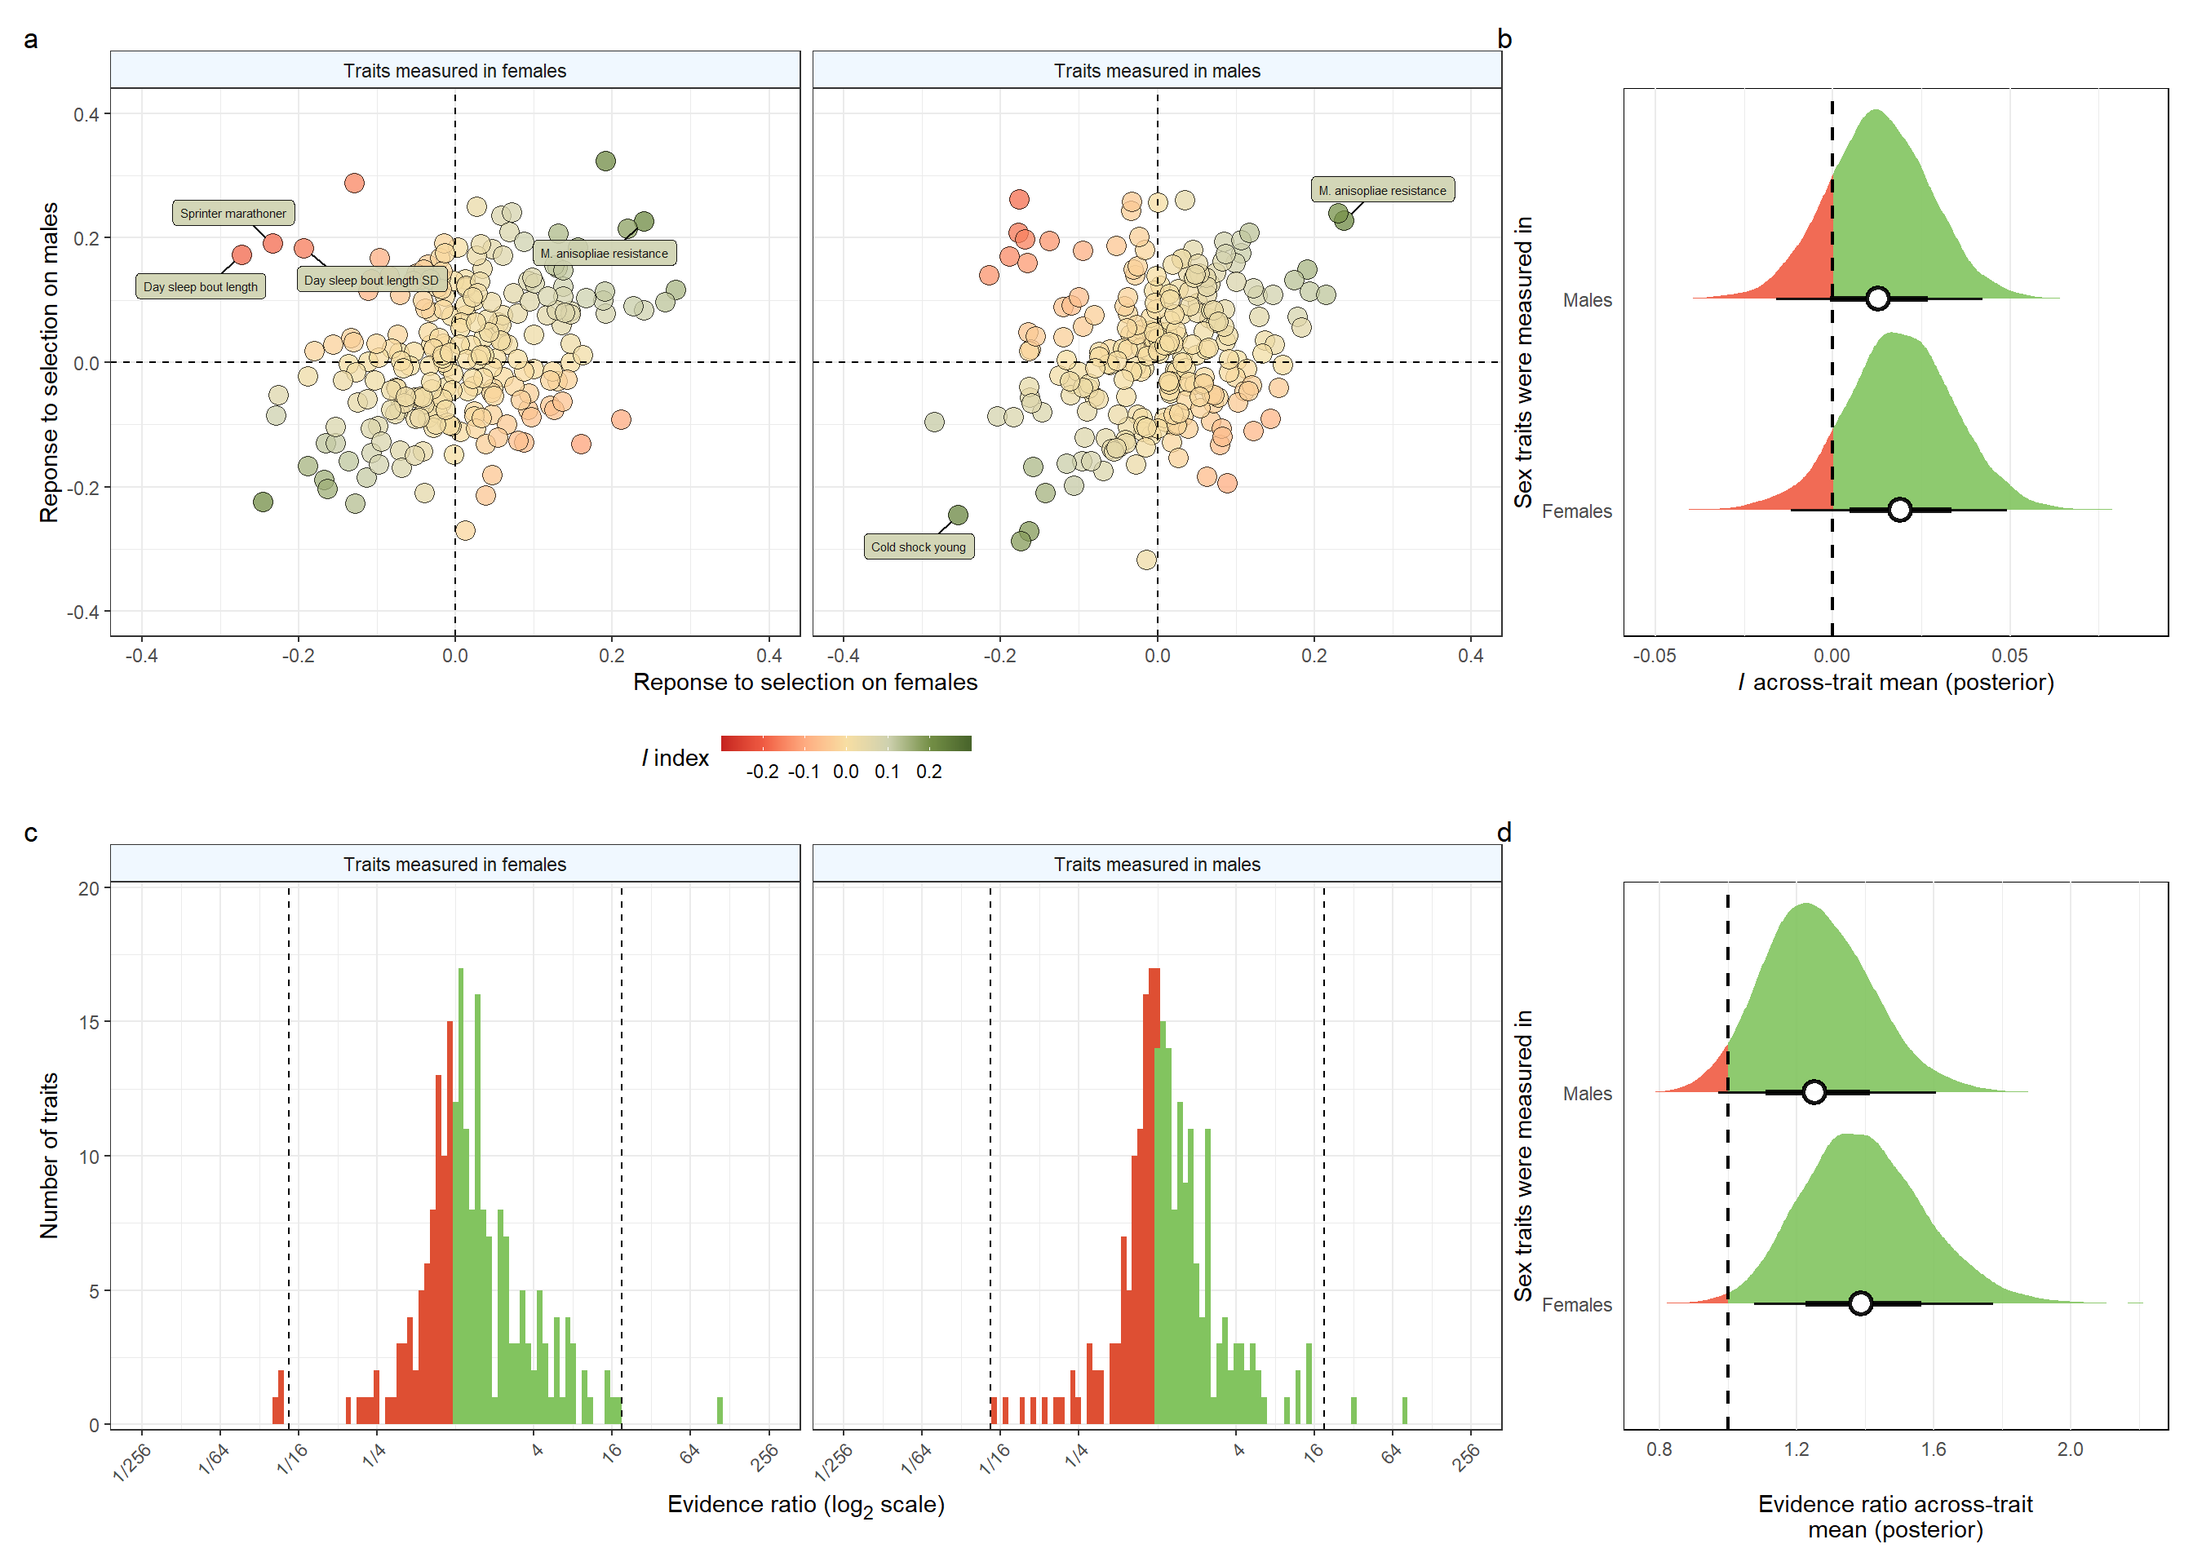
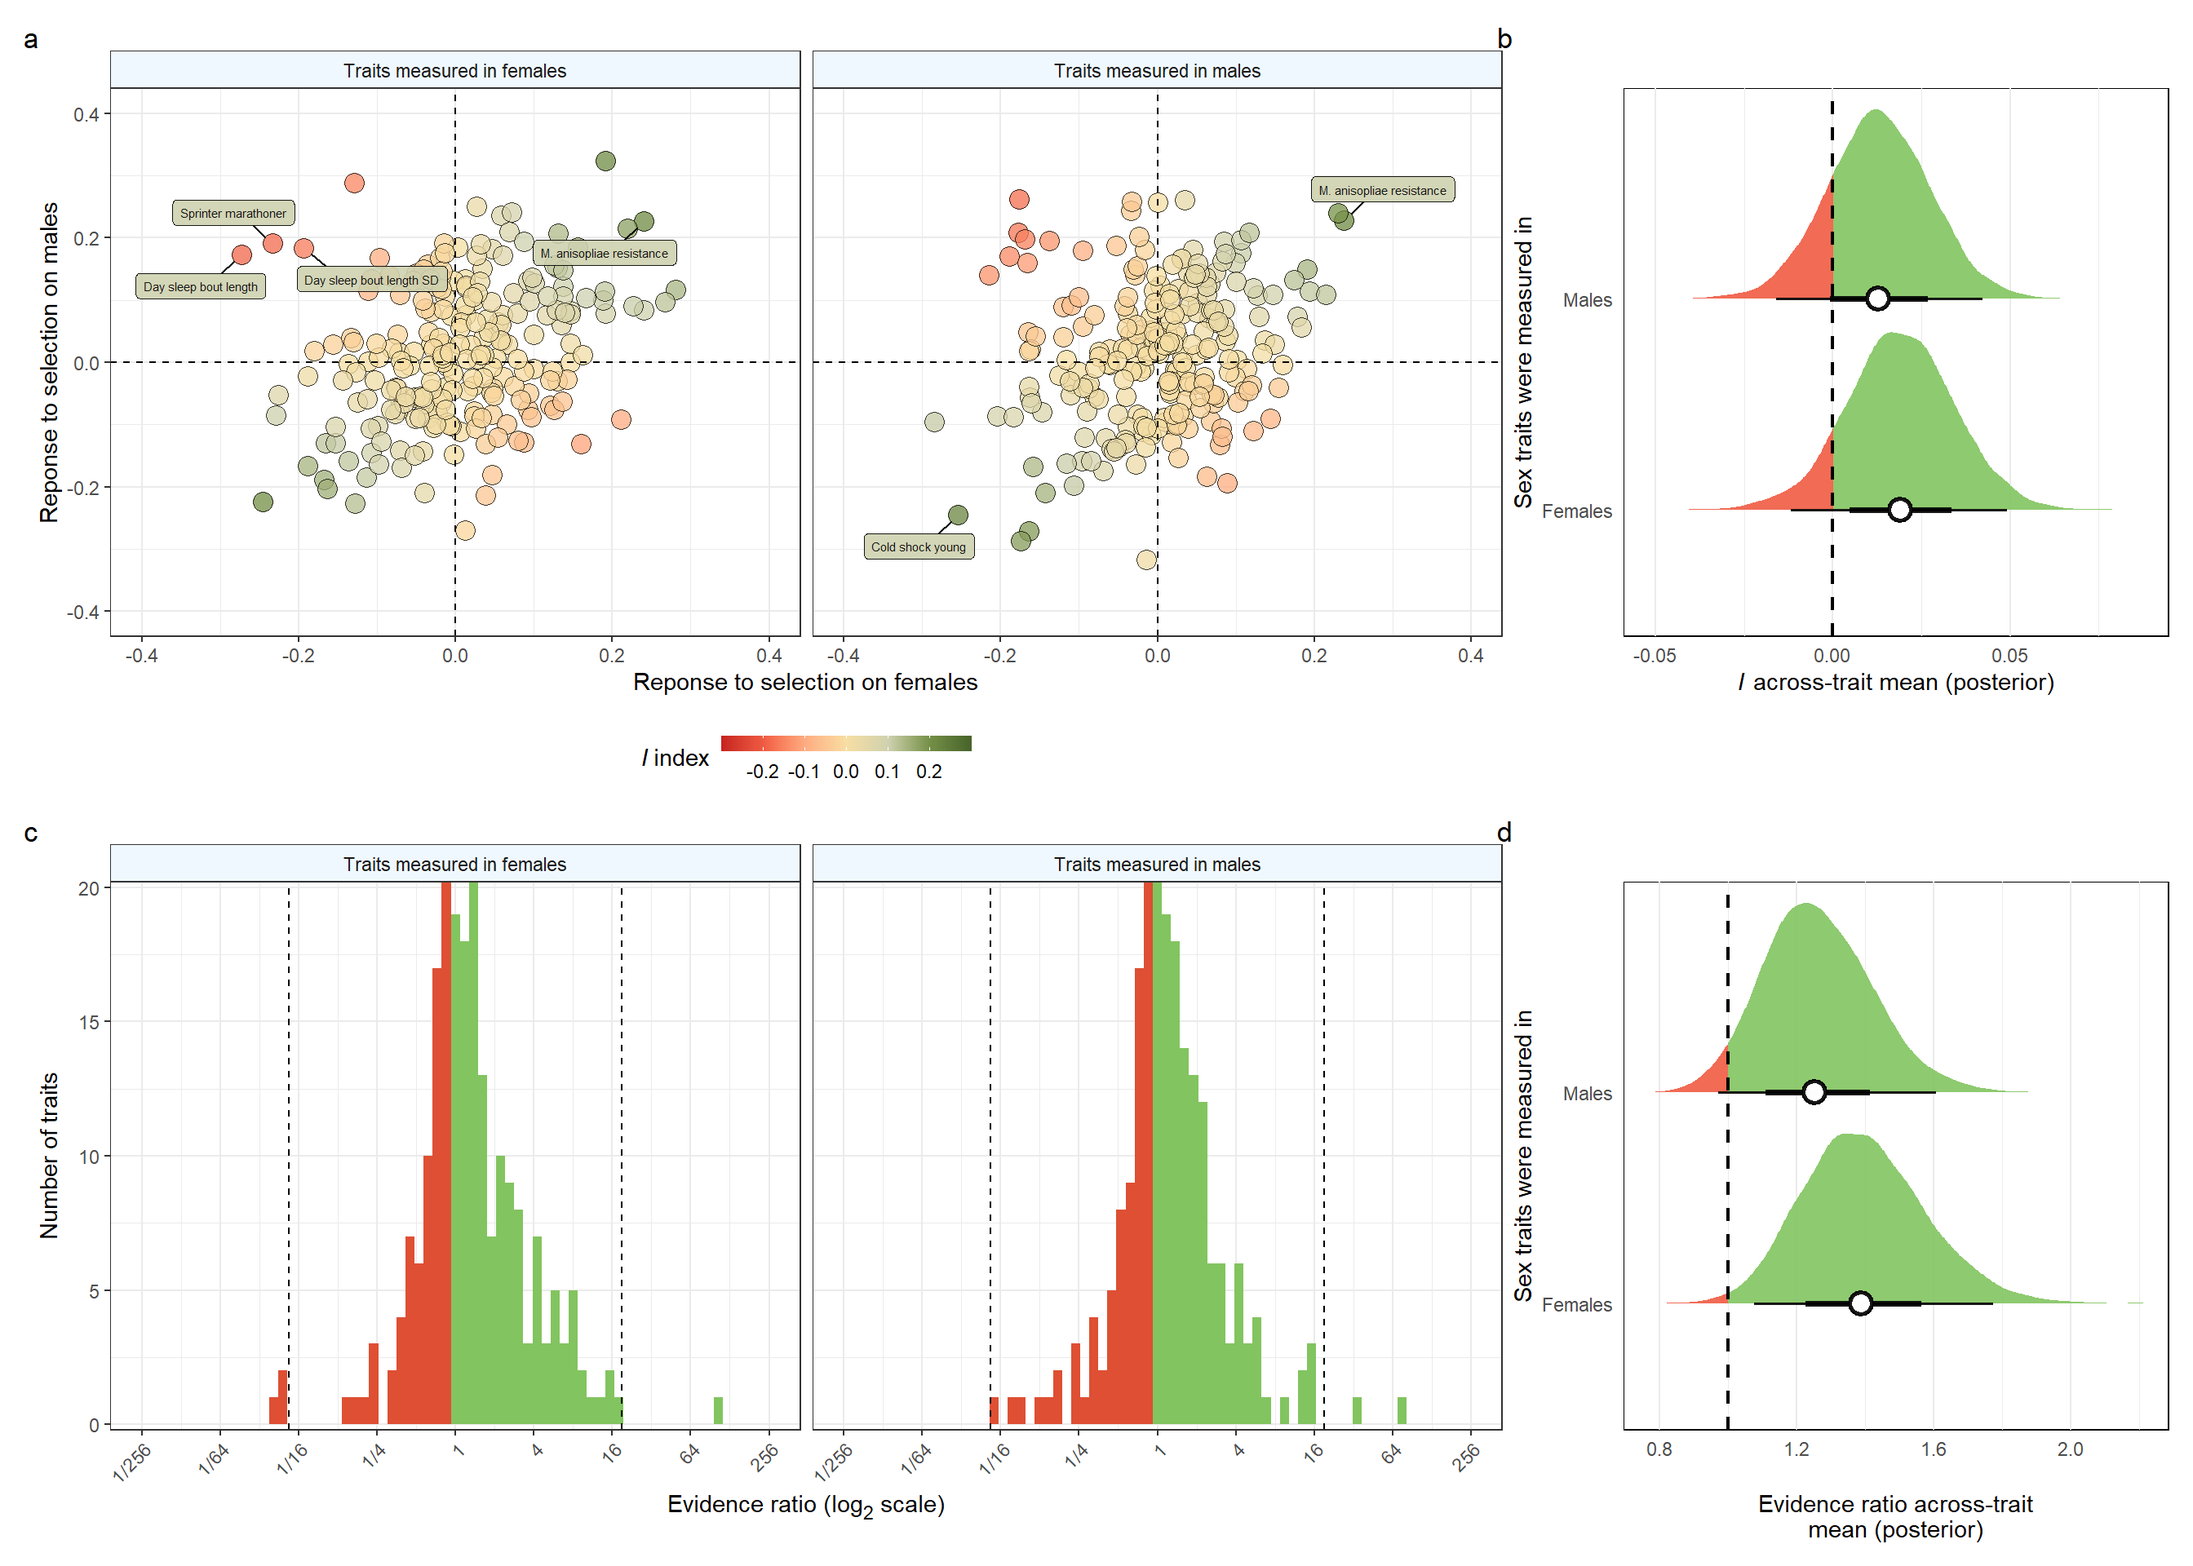
Build site.

Changed region(s): [[0.4375, 0.5625, 0.625, 0.9062], [0.1562, 0.5625, 0.2812, 0.9062]]

diff --git a/docs/Main_analysis.html b/docs/Main_analysis.html
@@ -423,7 +423,7 @@ class="glyphicon glyphicon-ok text-success" aria-hidden="true"></span>
 <div class="tab-content">
 <div id="summary" class="tab-pane fade in active">
 <p>
-<strong>Last updated:</strong> 2023-10-17
+<strong>Last updated:</strong> 2023-10-19
 </p>
 <p>
 <strong>Checks:</strong> <span
@@ -554,15 +554,15 @@ project makes it easier to run your code on other machines.</p>
 <div class="panel panel-default">
 <div class="panel-heading">
 <p class="panel-title">
-<a data-toggle="collapse" data-parent="#workflowr-checks" href="#strongRepositoryversionstrongahrefhttpsgithubcomtomkeaneyDGRPsexualconflicttree48c7e9f2ebf56a798c432436bb9708bd9ee04dcetargetblank48c7e9fa">
+<a data-toggle="collapse" data-parent="#workflowr-checks" href="#strongRepositoryversionstrongahrefhttpsgithubcomtomkeaneyDGRPsexualconflicttree4188afb015b72c7f1dbe96e738df3e0165c40079targetblank4188afba">
 <span class="glyphicon glyphicon-ok text-success"
 aria-hidden="true"></span> <strong>Repository version:</strong>
-<a href="https://github.com/tomkeaney/DGRP_sexual_conflict/tree/48c7e9f2ebf56a798c432436bb9708bd9ee04dce" target="_blank">48c7e9f</a>
+<a href="https://github.com/tomkeaney/DGRP_sexual_conflict/tree/4188afb015b72c7f1dbe96e738df3e0165c40079" target="_blank">4188afb</a>
 </a>
 </p>
 </div>
 <div
[2 lines of base64/hex data omitted]
 class="panel-collapse collapse">
 <div class="panel-body">
 <p>
@@ -572,7 +572,7 @@ reproducibility.
 </p>
 <p>
 The results in this page were generated with repository version
-<a href="https://github.com/tomkeaney/DGRP_sexual_conflict/tree/48c7e9f2ebf56a798c432436bb9708bd9ee04dce" target="_blank">48c7e9f</a>.
+<a href="https://github.com/tomkeaney/DGRP_sexual_conflict/tree/4188afb015b72c7f1dbe96e738df3e0165c40079" target="_blank">4188afb</a>.
 See the <em>Past versions</em> tab to see a history of the changes made
 to the R Markdown and HTML files.
 </p>
@@ -600,14 +600,9 @@ Untracked files:
     Untracked:  Chapter_2_Figure_S2.pdf
     Untracked:  Conflict_plot_females.pdf
     Untracked:  Conflict_plot_male.pdf
-    Untracked:  Figure_1.pdf
-    Untracked:  Figure_1.png
-    Untracked:  Figure_2.pdf
-    Untracked:  Figure_3.pdf
     Untracked:  Figures.Rmd
     Untracked:  Manuscript/
     Untracked:  PRISMA.pptx
-    Untracked:  Picture1.pdf
     Untracked:  R_transcriptome_medians.csv
     Untracked:  Reported_heritability.xlsx
     Untracked:  Useful_cuts.Rmd
@@ -628,6 +623,7 @@ Untracked files:
     Untracked:  data/transcriptome_chunks/
     Untracked:  data/transcriptome_output/
     Untracked:  evidence_ratios.R
+    Untracked:  figures/
     Untracked:  fits/
     Untracked:  height_example.pdf
     Untracked:  mag_R_sem.pdf
@@ -636,6 +632,7 @@ Untracked files:
 Unstaged changes:
     Modified:   DGRP_sexual_conflict.Rproj
     Modified:   _workflowr.yml
+    Modified:   analysis/Transcriptome_analysis.Rmd
     Deleted:    code/export_gwas_results_for_shiny_app.R
     Modified:   data/all.dgrp.phenos_unscaled.csv
 
@@ -683,6 +680,40 @@ Message
 </tr>
 </thead>
 <tbody>
+<tr>
+<td>
+Rmd
+</td>
+<td>
+<a href="https://github.com/tomkeaney/DGRP_sexual_conflict/blob/4188afb015b72c7f1dbe96e738df3e0165c40079/analysis/Main_analysis.Rmd" target="_blank">4188afb</a>
+</td>
+<td>
+tomkeaney
+</td>
+<td>
+2023-10-19
+</td>
+<td>
+small wording changes
+</td>
+</tr>
+<tr>
+<td>
+html
+</td>
+<td>
+<a href="https://rawcdn.githack.com/tomkeaney/DGRP_sexual_conflict/319c84c1118d4c1c59279734e1b3432ef1d08901/docs/Main_analysis.html" target="_blank">319c84c</a>
+</td>
+<td>
+tomkeaney
+</td>
+<td>
+2023-10-17
+</td>
+<td>
+Build site.
+</td>
+</tr>
 <tr>
 <td>
 Rmd
@@ -1712,6 +1743,17 @@ Date
 <tbody>
 <tr>
 <td>
+<a href="https://github.com/tomkeaney/DGRP_sexual_conflict/blob/319c84c1118d4c1c59279734e1b3432ef1d08901/docs/figure/Main_analysis.Rmd/unnamed-chunk-6-1.png" target="_blank">319c84c</a>
+</td>
+<td>
+tomkeaney
+</td>
+<td>
+2023-10-17
+</td>
+</tr>
+<tr>
+<td>
 <a href="https://github.com/tomkeaney/DGRP_sexual_conflict/blob/daa935de0473e2ecaedca3c65f414d2858ddc598/docs/figure/Main_analysis.Rmd/unnamed-chunk-6-1.png" target="_blank">daa935d</a>
 </td>
 <td>
@@ -1949,6 +1991,17 @@ Date
 <tbody>
 <tr>
 <td>
+<a href="https://github.com/tomkeaney/DGRP_sexual_conflict/blob/319c84c1118d4c1c59279734e1b3432ef1d08901/docs/figure/Main_analysis.Rmd/unnamed-chunk-9-1.png" target="_blank">319c84c</a>
+</td>
+<td>
+tomkeaney
+</td>
+<td>
+2023-10-17
+</td>
+</tr>
+<tr>
+<td>
 <a href="https://github.com/tomkeaney/DGRP_sexual_conflict/blob/daa935de0473e2ecaedca3c65f414d2858ddc598/docs/figure/Main_analysis.Rmd/unnamed-chunk-9-1.png" target="_blank">daa935d</a>
 </td>
 <td>
@@ -2086,6 +2139,17 @@ Date
 </tr>
 </thead>
 <tbody>
+<tr>
+<td>
+<a href="https://github.com/tomkeaney/DGRP_sexual_conflict/blob/319c84c1118d4c1c59279734e1b3432ef1d08901/docs/figure/Main_analysis.Rmd/unnamed-chunk-10-1.png" target="_blank">319c84c</a>
+</td>
+<td>
+tomkeaney
+</td>
+<td>
+2023-10-17
+</td>
+</tr>
 <tr>
 <td>
 <a href="https://github.com/tomkeaney/DGRP_sexual_conflict/blob/daa935de0473e2ecaedca3c65f414d2858ddc598/docs/figure/Main_analysis.Rmd/unnamed-chunk-10-1.png" target="_blank">daa935d</a>
@@ -6069,8 +6133,10 @@ Critical thermal min within environment variation plasticity
 </ul>
 <p><span class="math inline">\(~\)</span></p>
 </div>
-<div id="build-figure-2" class="section level2">
-<h2>Build Figure 2</h2>
+<div id="build-figure-3" class="section level2">
+<h2>Build Figure 3</h2>
+<p>Yep, this is out of order but it makes more sense in the text to
+order it as such.</p>
 <pre class="r"><code>female_R_diff_plot &lt;-
   R_female_traits %&gt;%
   group_by(Trait) %&gt;%
@@ -6144,11 +6210,48 @@ male_R_diff_plot &lt;-
         axis.text.y = element_text(size = 9),
         plot.subtitle=element_text(hjust=0.5))
 
-fig2 &lt;- female_R_diff_plot / male_R_diff_plot
+fig3 &lt;- female_R_diff_plot / male_R_diff_plot
 
-fig2</code></pre>
+fig3</code></pre>
 <p><img src="figure/Main_analysis.Rmd/unnamed-chunk-15-1.png" width="672" style="display: block; margin: auto;" /></p>
-<p><strong>Figure 2</strong>. Candidate traits predicted to have strong
+<p>
+<button type="button" class="btn btn-default btn-xs btn-workflowr btn-workflowr-fig" data-toggle="collapse" data-target="#fig-unnamed-chunk-15-1">
+Past versions of unnamed-chunk-15-1.png
+</button>
+</p>
+<div id="fig-unnamed-chunk-15-1" class="collapse">
+<div class="table-responsive">
+<table class="table table-condensed table-hover">
+<thead>
+<tr>
+<th>
+Version
+</th>
+<th>
+Author
+</th>
+<th>
+Date
+</th>
+</tr>
+</thead>
+<tbody>
+<tr>
+<td>
+<a href="https://github.com/tomkeaney/DGRP_sexual_conflict/blob/319c84c1118d4c1c59279734e1b3432ef1d08901/docs/figure/Main_analysis.Rmd/unnamed-chunk-15-1.png" target="_blank">319c84c</a>
+</td>
+<td>
+tomkeaney
+</td>
+<td>
+2023-10-17
+</td>
+</tr>
+</tbody>
+</table>
+</div>
+</div>
+<p><strong>Figure 3</strong>. Candidate traits predicted to have strong
 sex-specific responses to selection. The traits shown are those where
 the 95% credible interval of the difference between <span
 class="math inline">\(R_f\)</span> and <span
@@ -6180,6 +6283,7 @@ R_overall_medians &lt;-
   mutate(absolute_R_overall = abs(median),
          Trait_Sex = as.factor(Trait_Sex),
          Trait = as.factor(Trait)) 
+
 
 R_intercept_model &lt;- 
   brm(absolute_R_overall | weights(1/sd) ~ 1 + Trait_Sex + (1|study_ID),
@@ -6272,8 +6376,8 @@ Draws were sampled using sampling(NUTS). For each parameter, Bulk_ESS
 and Tail_ESS are effective sample size measures, and Rhat is the potential
 scale reduction factor on split chains (at convergence, Rhat = 1).</code></pre>
 <p><span class="math inline">\(~\)</span></p>
-<div id="build-figure-3" class="section level2">
-<h2>Build Figure 3</h2>
+<div id="build-panels-a-and-b-for-figure-2" class="section level2">
+<h2>Build Panels a and b for Figure 2</h2>
 <p>Get model predictions and plot</p>
 <pre class="r"><code>new_data &lt;- expand_grid(Fitness_Sex = c(&quot;Female&quot;, &quot;Male&quot;),
                         Trait_Sex = c(&quot;Female&quot;, &quot;Male&quot;))
@@ -6359,6 +6463,17 @@ Date
 <tbody>
 <tr>
 <td>
+<a href="https://github.com/tomkeaney/DGRP_sexual_conflict/blob/319c84c1118d4c1c59279734e1b3432ef1d08901/docs/figure/Main_analysis.Rmd/unnamed-chunk-19-1.png" target="_blank">319c84c</a>
+</td>
+<td>
+tomkeaney
+</td>
+<td>
+2023-10-17
+</td>
+</tr>
+<tr>
+<td>
 <a href="https://github.com/tomkeaney/DGRP_sexual_conflict/blob/daa935de0473e2ecaedca3c65f414d2858ddc598/docs/figure/Main_analysis.Rmd/unnamed-chunk-19-1.png" target="_blank">daa935d</a>
 </td>
 <td>
@@ -6372,7 +6487,7 @@ ausevo
 </table>
 </div>
 </div>
-<p><strong>Figure 3</strong>. <strong>a</strong> The posterior
+<p><strong>Figure 2</strong>. <strong>a</strong> The posterior
 distribution for across-trait |<span class="math inline">\(R\)</span>|,
 the mean expected response to selection (absolute value) in females and
 males and split by the sex the trait was measured in. For each trait
@@ -6502,6 +6617,17 @@ Date
 </tr>
 </thead>
 <tbody>
+<tr>
+<td>
+<a href="https://github.com/tomkeaney/DGRP_sexual_conflict/blob/319c84c1118d4c1c59279734e1b3432ef1d08901/docs/figure/Main_analysis.Rmd/unnamed-chunk-21-1.png" target="_blank">319c84c</a>
+</td>
+<td>
+tomkeaney
+</td>
+<td>
+2023-10-17
+</td>
+</tr>
 <tr>
 <td>
 <a href="https://github.com/tomkeaney/DGRP_sexual_conflict/blob/daa935de0473e2ecaedca3c65f414d2858ddc598/docs/figure/Main_analysis.Rmd/unnamed-chunk-21-1.png" target="_blank">daa935d</a>
@@ -8336,14 +8462,14 @@ evidence_ratios &lt;-
   evidence_ratios %&gt;%
     ggplot(aes(log2(evidence_ratio_concord))) +
     geom_histogram(data=subset(evidence_ratios, evidence_ratio_concord &lt; 1),
-                   bins = 80, fill = met.brewer(name = &quot;Tam&quot;, 8)[4]) +
+                   bins = 50, fill = met.brewer(name = &quot;Tam&quot;, 8)[4]) +
     geom_histogram(data=subset(evidence_ratios, evidence_ratio_concord &gt;= 1),
-                   bins = 80, fill = met.brewer(name = &quot;Tsimshian&quot;, 7)[3]) +
+                   bins = 50, fill = met.brewer(name = &quot;Tsimshian&quot;, 7)[3]) +
     coord_cartesian(xlim = c(-8, 8), ylim = c(0, 20)) +
   geom_vline(xintercept = log2(19), linetype = 2) +
   geom_vline(xintercept = log2(1/19), linetype = 2) +
-    scale_x_continuous(breaks = c(-8,  -6, -4, -2,   2, 4, 6,  8),
-                       labels = c(paste(&quot;1/&quot;,2 ^ c(8,  6, 4, 2), sep = &quot;&quot;), 2 ^ c(2,4,6,8))) +
+    scale_x_continuous(breaks = c(-8,  -6, -4, -2, 0, 2, 4, 6,  8),
+                       labels = c(paste(&quot;1/&quot;,2 ^ c(8, 6, 4, 2), sep = &quot;&quot;), 2 ^ c(0, 2,4,6,8))) +
     scale_y_continuous(expand = expansion(mult = c(0.01, 0.01))) +
 
     facet_wrap(~ Trait_Sex) +
@@ -8455,21 +8581,57 @@ er_fitted &lt;-
   plot_layout(widths = c(3, -0.5, 1)) &amp;  
   plot_annotation(tag_levels = &#39;a&#39;)</code></pre>
 <p><img src="figure/Main_analysis.Rmd/unnamed-chunk-32-1.png" width="1344" style="display: block; margin: auto;" /></p>
-<p><strong>Figure 4</strong>. <strong>a</strong> Concordance and
-conflict in the <em>Drosophila melanogaster</em> phenome.
-<strong>a</strong> shows traits coloured by Innocenti and Morrow’s I
-index. Extreme positive values indicate a trait is predicted to have a
-sexually concordant response to selection, while negative values
-indicate a trait is expected to have a sexually antagonistic response to
-selection. Traits with evidence ratios &gt; 19 are labelled.
-<strong>b</strong> the mean <em>I</em> value estimated across all
-traits, split by the sex traits were measured in. <strong>c</strong>
-evidence ratios for sexually concordant responses to selection. Dashed
-lines indicate an evidence ratio of 19, which is equivalent to a
-frequentist <em>p</em>-value = 0.05. <strong>d</strong> the mean
-evidence ratio estimated across all traits, split by the sex traits were
-measured in. Points indicate the mean point estimate, with associated 67
-and 95% credible intervals.</p>
+<p>
+<button type="button" class="btn btn-default btn-xs btn-workflowr btn-workflowr-fig" data-toggle="collapse" data-target="#fig-unnamed-chunk-32-1">
+Past versions of unnamed-chunk-32-1.png
+</button>
+</p>
+<div id="fig-unnamed-chunk-32-1" class="collapse">
+<div class="table-responsive">
+<table class="table table-condensed table-hover">
+<thead>
+<tr>
+<th>
+Version
+</th>
+<th>
+Author
+</th>
+<th>
+Date
+</th>
+</tr>
+</thead>
+<tbody>
+<tr>
+<td>
+<a href="https://github.com/tomkeaney/DGRP_sexual_conflict/blob/319c84c1118d4c1c59279734e1b3432ef1d08901/docs/figure/Main_analysis.Rmd/unnamed-chunk-32-1.png" target="_blank">319c84c</a>
+</td>
+<td>
+tomkeaney
+</td>
+<td>
+2023-10-17
+</td>
+</tr>
+</tbody>
+</table>
+</div>
+</div>
+<p><strong>Figure 4</strong>. Concordance and conflict in the
+<em>Drosophila melanogaster</em> phenome. <strong>a</strong> shows
+traits coloured by Innocenti and Morrow’s I index. Extreme positive
+values indicate a trait is predicted to have a sexually concordant
+response to selection, while negative values indicate a trait is
+expected to have a sexually antagonistic response to selection. Traits
+with evidence ratios &gt; 19 are labelled. <strong>b</strong> the mean
+<em>I</em> value estimated across all traits, split by the sex traits
+were measured in. <strong>c</strong> evidence ratios for sexually
+concordant responses to selection. Dashed lines indicate an evidence
+ratio of 19, which is equivalent to a frequentist <em>p</em>-value =
+0.05. <strong>d</strong> the mean evidence ratio estimated across all
+traits, split by the sex traits were measured in. Points indicate the
+mean point estimate, with associated 67 and 95% credible intervals.</p>
 <br>
 <p>
 <button type="button" class="btn btn-default btn-workflowr btn-workflowr-sessioninfo" data-toggle="collapse" data-target="#workflowr-sessioninfo" style="display: block;">
